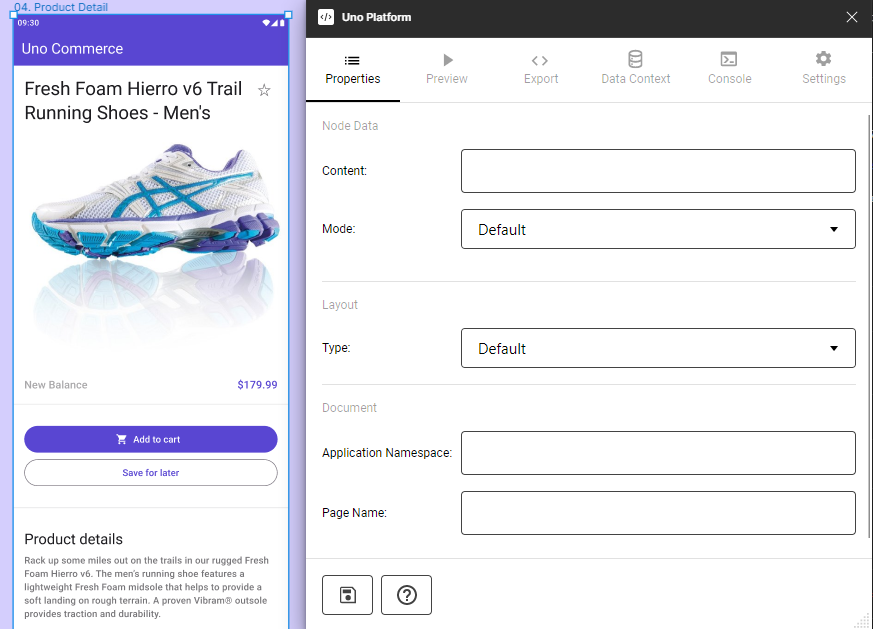
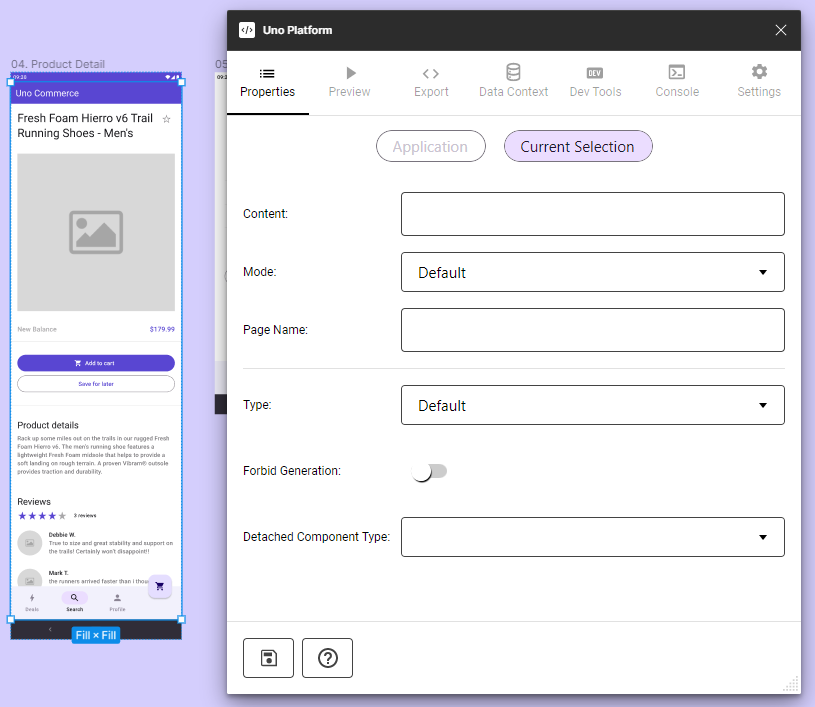
Sync from 84ac273054ef4caa43cdca057aeabe033278b8fc / 2.5.0-dev.284 / 73687

diff --git a/learn/developers/properties-tab.md b/learn/developers/properties-tab.md
@@ -27,7 +27,9 @@ It could also be used to set bindings to a component that can be used when the *
     > [!NOTE]
     > When using _Reactive_ mode, the `<FeedView>` component will be present in exported XAML, but never in the preview. The corresponding setting must be turned on for this generation to contains the FeedView control.
 
-- *Layout type* allows you to assign ListView, Items Repeater (UniformGrid and Stack) and Group behaviours to a frame;
+- *Page Name*: the exported page will receive this name instead the frame name.  
+
+- *Type* allows you to assign ListView, Items Repeater (StackLayout) and Group behaviours to a frame;
 
     > [!NOTE]
     > To add scrollable feature to a frame, start by going to the *Prototype tab* (in the top right of the Figma interface) and then set the **Overflow scrolling** property to one of the 4 options
@@ -40,16 +42,14 @@ It could also be used to set bindings to a component that can be used when the *
     > It is expected to have a result very close to Figma file design, when using ListView or Items Repeater options.
     > The use of each control depends on the goal of the developer. For more information about how Items Repeater works and its differences from ListView, please refer to [this article](https://docs.microsoft.com/en-us/windows/uwp/design/controls-and-patterns/items-repeater).
 
+- *Custom Component*: custom component properties. Please see [Custom Components](custom-components.md): 
+
 - *Application Namespace*: this property is used to prefix the _namespace_ in the generated XAML.
 
-- Refer to Individual component documentation for their properties settings in the plugin.
+- *Customize*: used to import and override theme packages from Material Theme Builder and its property can be used to override the theme package used in the Figma File, for more information please visit the [Themes](../designers/themes.md) page.
 
-- *Page Name*: the exported page will receive this name instead the frame name.  
-
-- *Forbid Generation*: when checked, the selected component will not be considered in Xaml generation.  
-
-- *Theme*: used to import theme packages from Material Theme Builder and its property can be used to override the theme package used in the Figma File, for more information please visit the [Themes](../designers/themes.md) page.
-- *Theme Package*: used to import and override theme packages, generated by Material Theme Builder, and used in the Figma File. To know more about this feature, please visit [Themes](../designers/themes.md).
+> [!NOTE]
+> Refer to Individual component documentation for their properties settings in the plugin.
 
 ### Steps to use the Properties tab
 
@@ -61,4 +61,5 @@ It could also be used to set bindings to a component that can be used when the *
 6. (Optional) Preview the effects either in the Preview or Export tabs by clicking the desired tab and then clicking the *Refresh* button at the bottom of the tab.
 
  ![](assets/properties.png)
+ ![](assets/properties2.png)
 

diff --git a/learn/developers/custom-components.md b/learn/developers/custom-components.md
@@ -1,0 +1,18 @@
+# Custom Components
+
+It is pretty common that apps use third party or custom controls, not present in Winui control library.
+For those cases, the plugin allows the user to reserve space in exported layout to those objects.
+
+### Steps to use Custom Components
+
+1. Draw a frame and transform it in a Component;
+2. Open the Plugin and select the *Properties Tab*;
+3. With your Component selected, active the *Custom Component* toggle;
+4. Fill the fields accordingly your Custom Control specifications
+
+![](assets/custom-component.png)
+
+> [!NOTE]
+> When you add an instance of your custom component in a screen to be generated, the plugin will create the correct Xaml code to your custom control. 
+
+![](assets/custom-component2.png)
